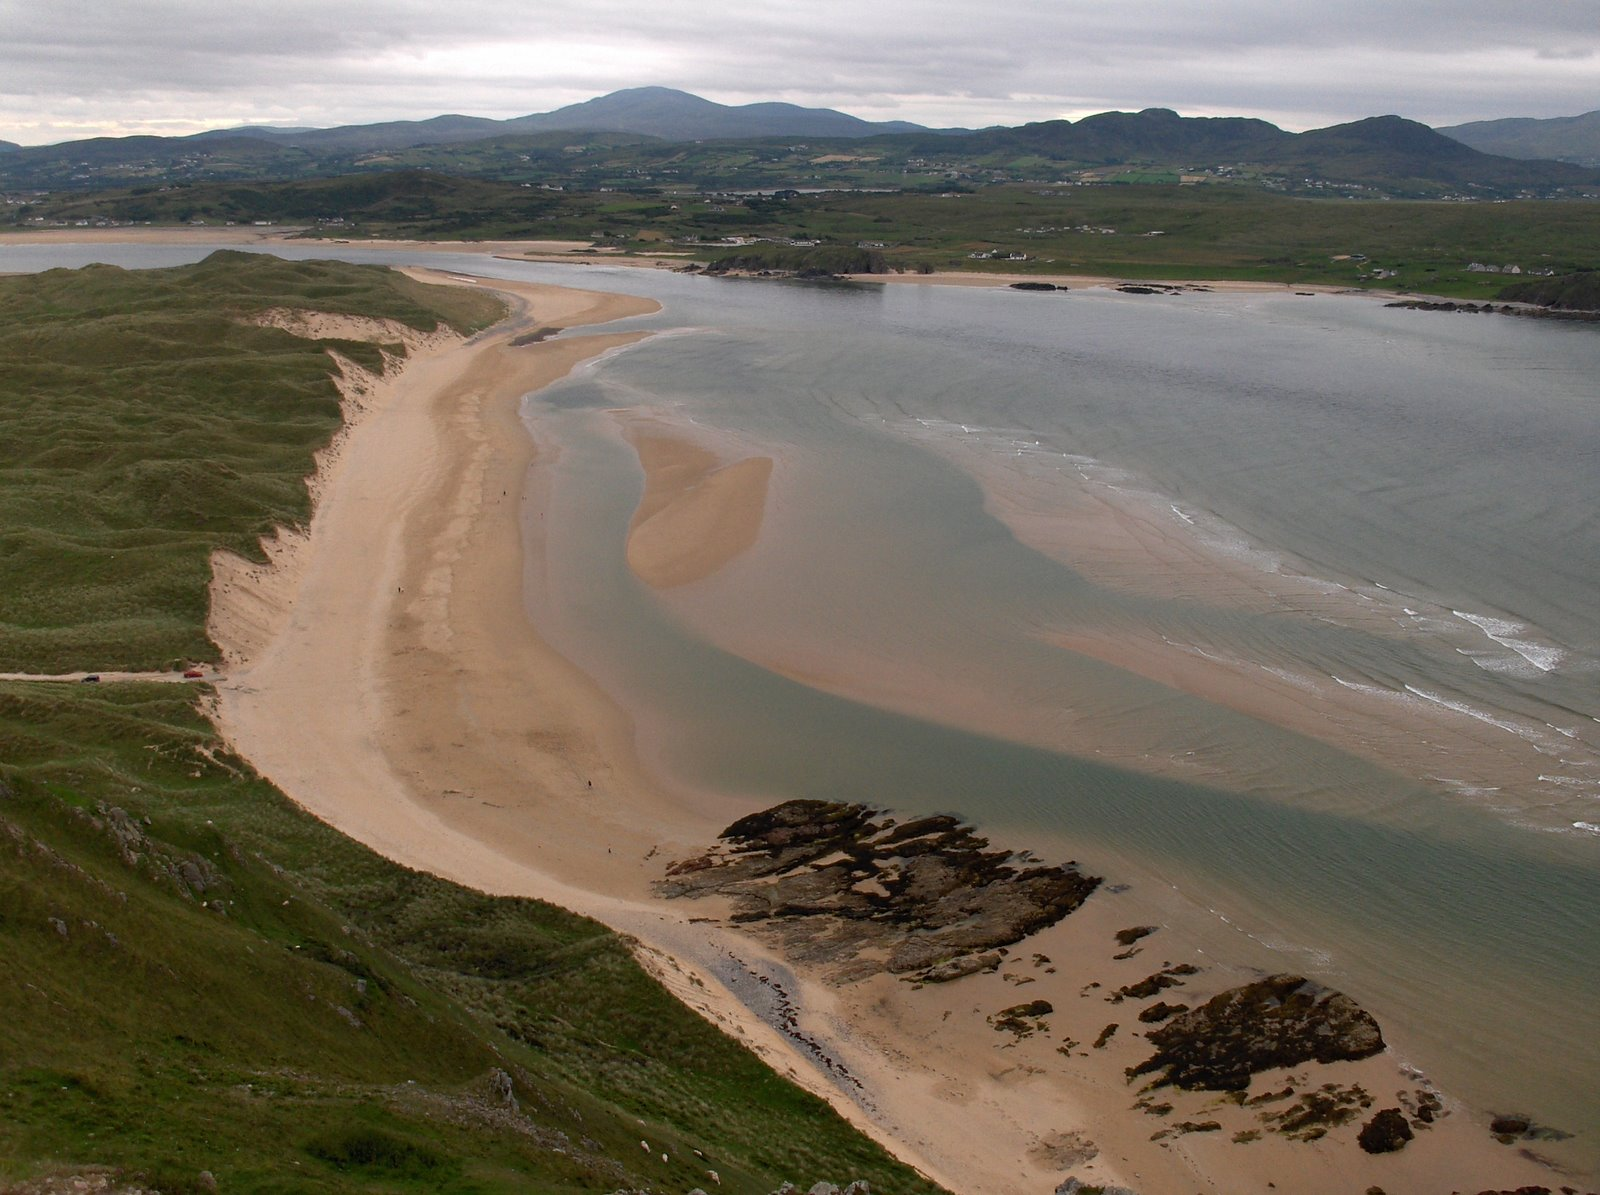
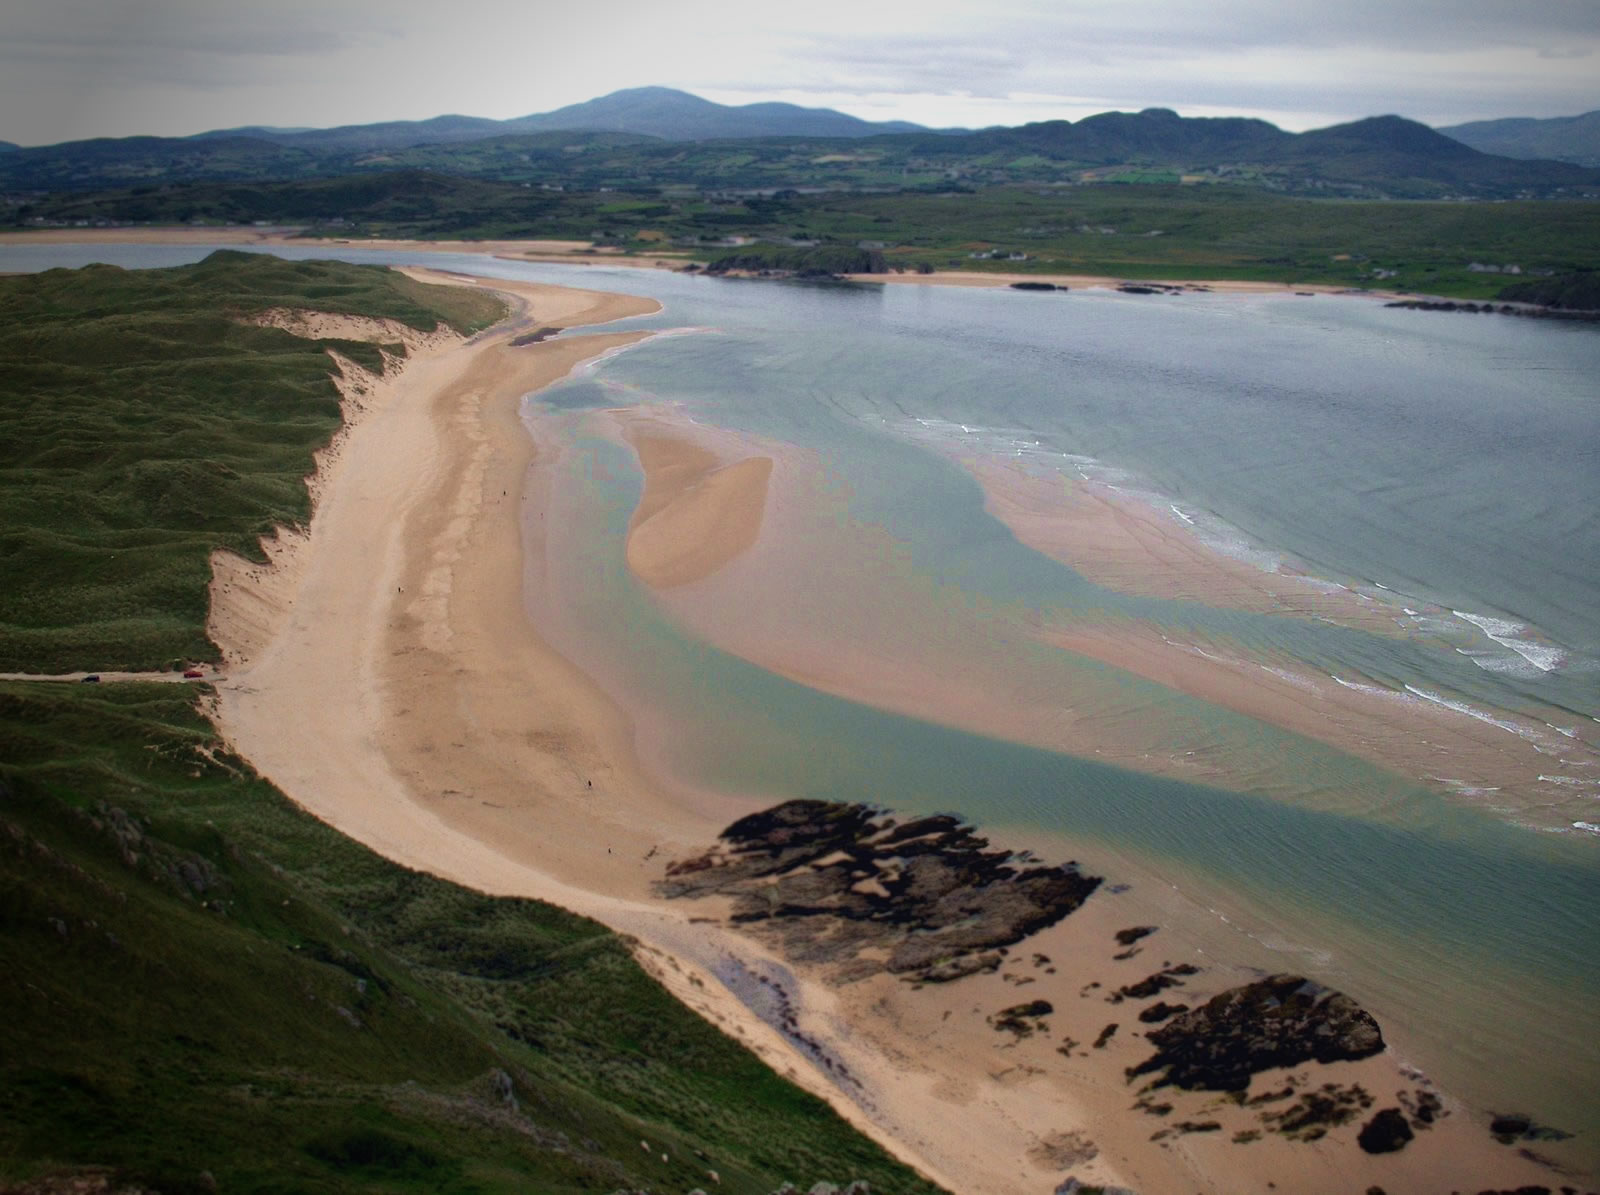
Most bg images added

diff --git a/meet-the-team/conor-clafferty/index.html b/meet-the-team/conor-clafferty/index.html
@@ -2,7 +2,7 @@
 <html>
 <head>
 <meta charset=utf-8 />
-<title>Connor Clafferty - Meet the team - BLISS</title>
+<title>Conor Clafferty - Meet the team - BLISS</title>
 <?php
 
 			include $_SERVER["DOCUMENT_ROOT"].'/_includes/head.html';
@@ -13,7 +13,7 @@
 <div id="container">
   <div id="header">
     <header>
-      <h1 id="pageTitle">Connor Clafferty.</h1>
+      <h1 id="pageTitle">Conor Clafferty.</h1>
     </header>
   </div>
   <div id="contentContainer">
@@ -51,6 +51,11 @@
         <?php
 
 			include $_SERVER["DOCUMENT_ROOT"].'/_includes/team.html';
+
+		?>
+                  <?php
+
+			include $_SERVER["DOCUMENT_ROOT"].'/_includes/contact-links.html';
 
 		?>
     </div>

diff --git a/meet-the-team/jon-stutfield/index.html b/meet-the-team/jon-stutfield/index.html
@@ -52,9 +52,14 @@
 			include $_SERVER["DOCUMENT_ROOT"].'/_includes/team.html';
 
 		?>
+                  <?php
+
+			include $_SERVER["DOCUMENT_ROOT"].'/_includes/contact-links.html';
+
+		?>
     </div>
   </footer>
 </div>
-<div id="background" class="bgimage" style="background-image:url(/_images/head.jpg);"></div>
+<div id="background" class="bgimage" style="background-image:url(/_images/beer-garden.jpg);"></div>
 </body>
 </html>

diff --git a/_styles/screen.css b/_styles/screen.css
@@ -25,6 +25,9 @@ body {
 	overflow: visible;
 	background-color:#000;
 }
+strong {
+	font-weight:700;
+}
 #container {
 	position:absolute;
 	top:0;
@@ -157,8 +160,8 @@ h1 {
 	filter: progid:DXImageTransform.Microsoft.Shadow(Strength=2, Direction=135, Color='#000000');
 }
 h2 {
-	font-size: 32px;
-	width: 590px;
+	font-size: 25px;
+	width: 700px;
 	font-weight: 300;
 	line-height: 32px;
 	color: #FFF !important;

diff --git a/_scripts/bliss.js b/_scripts/bliss.js
@@ -95,7 +95,7 @@ $(document).ready(function() {
 		$('#section').animate({
 			height: 'toggle'
 		},
-		100, 'swing', hideLoader);
+		100, 'swing');
 		$('h1').fadeIn();
 		$('#supplementaryContainer').fadeIn();
 		$('#featureContainer').fadeIn();

diff --git a/meet-the-team/index.html b/meet-the-team/index.html
@@ -49,6 +49,11 @@
 			include $_SERVER["DOCUMENT_ROOT"].'/_includes/team.html';
 
 		?>
+                  <?php
+
+			include $_SERVER["DOCUMENT_ROOT"].'/_includes/contact-links.html';
+
+		?>
     </div>
   </footer>
 </div>

diff --git a/meet-the-team/laurie-peacock/index.html b/meet-the-team/laurie-peacock/index.html
@@ -53,6 +53,11 @@
 			include $_SERVER["DOCUMENT_ROOT"].'/_includes/team.html';
 
 		?>
+                  <?php
+
+			include $_SERVER["DOCUMENT_ROOT"].'/_includes/contact-links.html';
+
+		?>
     </div>
   </footer>
 </div>

diff --git a/meet-the-team/nathan-beck/index.html b/meet-the-team/nathan-beck/index.html
@@ -59,6 +59,11 @@
 			include $_SERVER["DOCUMENT_ROOT"].'/_includes/team.html';
 
 		?>
+                  <?php
+
+			include $_SERVER["DOCUMENT_ROOT"].'/_includes/contact-links.html';
+
+		?>
     </div>
   </footer>
 </div>

diff --git a/this-is-bliss/index.html b/this-is-bliss/index.html
@@ -2,7 +2,7 @@
 <html>
 <head>
 <meta charset=utf-8 />
-<title>Our approach - BLISS</title>
+<title>BLISS</title>
 <?php
 
 			include $_SERVER["DOCUMENT_ROOT"].'/_includes/head.html';
